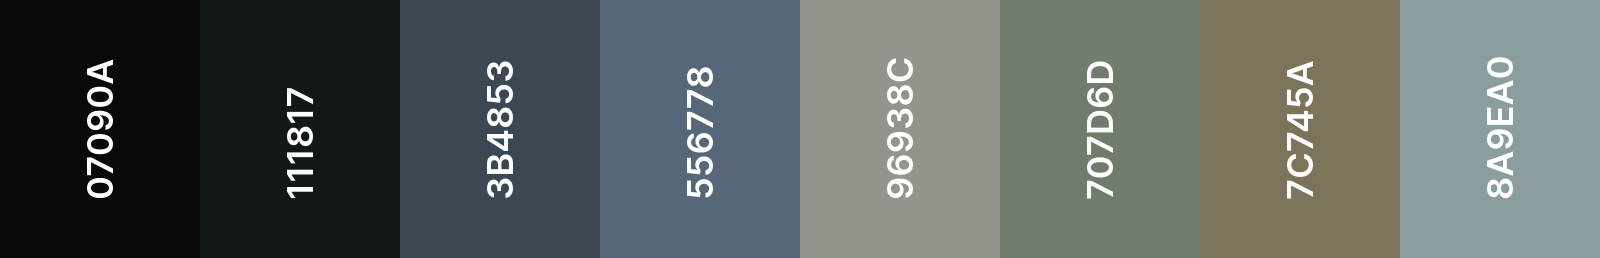
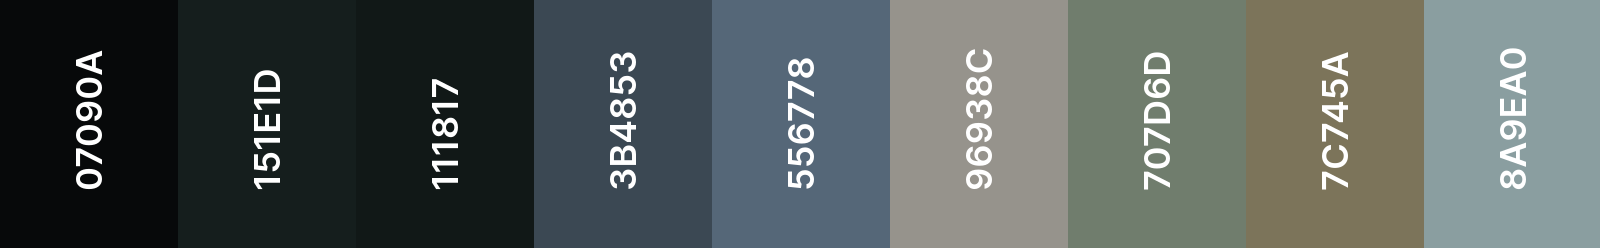
feat(peanut): add new color for scrollbar

diff --git a/README.md b/README.md
@@ -8,7 +8,7 @@ highly opinionated distributions.
 
 ![Palette](./screenshots/palette.png)
 
-https://coolors.co/07090a-111817-3b4853-556778-96938c-707d6d-7c745a-8a9ea0
+https://coolors.co/07090a-151e1d-111817-3b4853-556778-96938c-707d6d-7c745a-8a9ea0
 
 ## Screenshots
 
